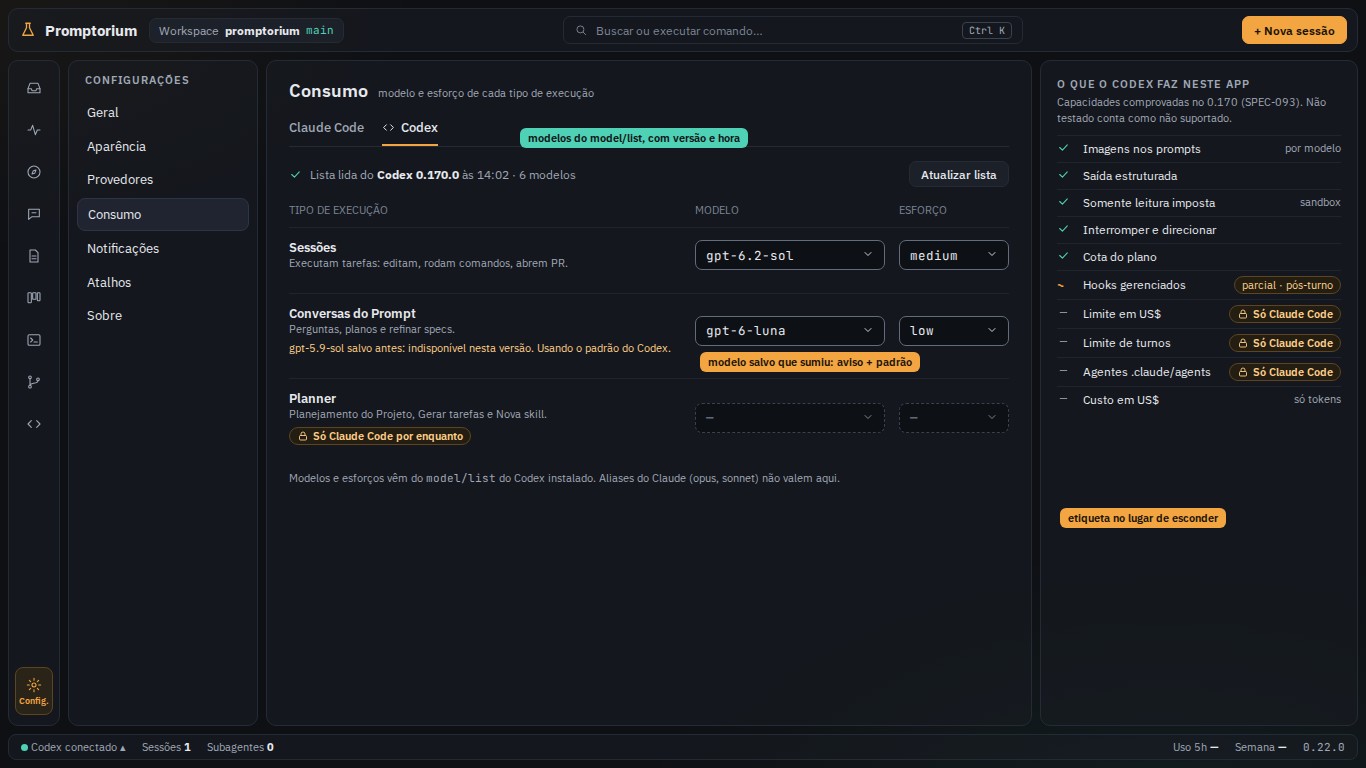
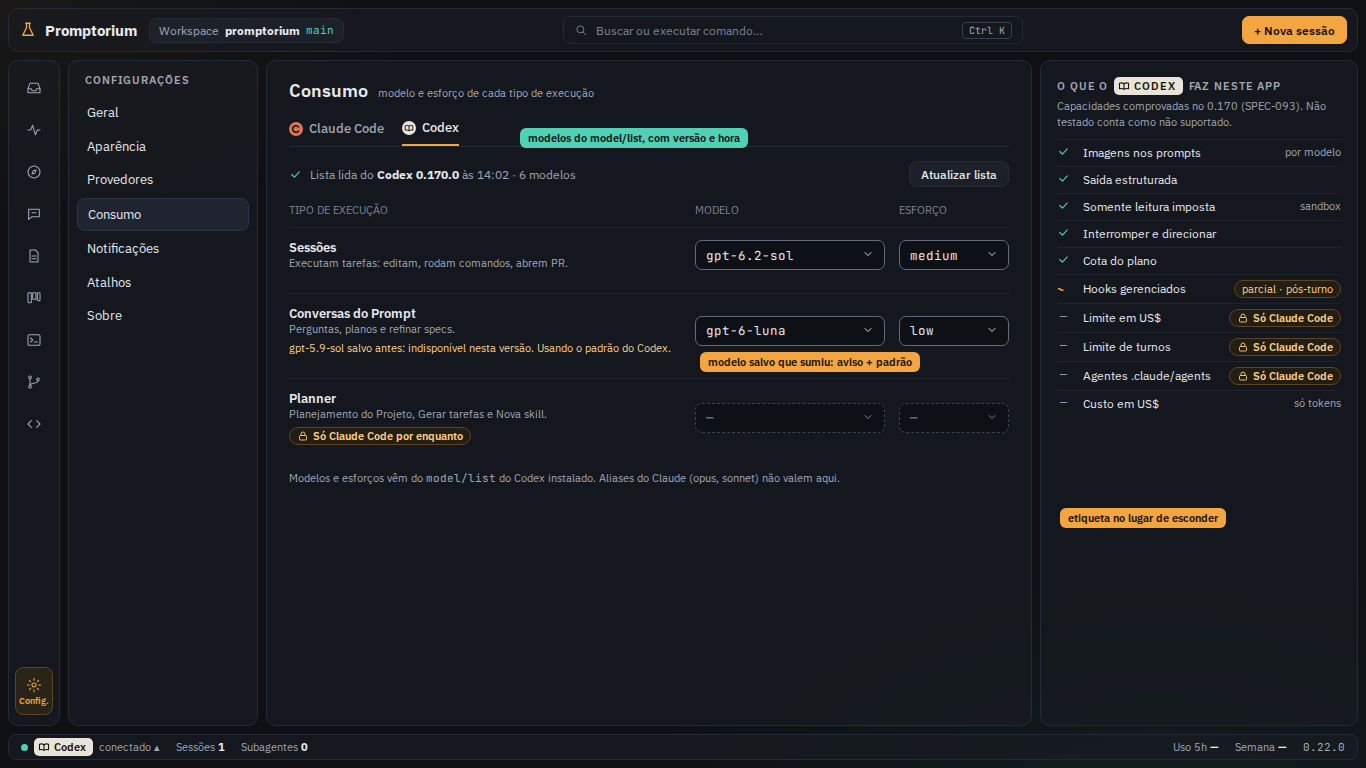
docs(spec): SPEC-094 cores de provedor

diff --git a/docs/specs/SPEC-094-capacidades-por-provedor.md b/docs/specs/SPEC-094-capacidades-por-provedor.md
@@ -49,6 +49,14 @@ Esta spec troca isso por **capacidades declaradas por provedor**. Cada provedor 
 - R12 · **Nunca trocar em silêncio.** Se o provedor resolvido não serve para o fluxo, a execução não começa e a tela diz o motivo antes do clique, com a opção explícita de rodar com o outro provedor. Nenhum caminho cai para o Claude sozinho.
 - R13 · **Fim das comparações soltas.** As decisões de `== 'claude'` / `!= 'claude'` fora dos adaptadores e do registro passam a consultar capacidades ou `providerFlows`. Sobram comparações só em `lib/core/claude/`, `lib/core/codex/` e `lib/core/providers/`.
 
+### Identidade visual do provedor
+
+- R14 · **Cor de identidade por provedor.** Dois tokens novos: `providerClaude` = argila `#D97757` e `providerCodex` = porcelana `#E8E4DA` (ver Design). Três regras:
+  1. **Só identidade, nunca estado.** A cor diz *quem* roda, não *como está*. Rodando, falhou, feita, aguardando e verificando continuam com as cores de hoje (`teal`, `red`, `CanvasColors.*`). Um seletor de provedor marca a opção escolhida com o âmbar de sempre, não com a cor do provedor.
+  2. **Nunca só a cor.** A cor sempre vem com o nome ou com o glifo do provedor. Glifos desenhados por nós, simples e de traço: Claude = arco aberto; Codex = livro aberto ("códice"). Nada dos logos da Anthropic ou da OpenAI.
+  3. **Três formas, e só elas.** (a) **Chip** preenchido com glifo e nome ("Claude" / "Codex"), texto escuro `#1A1206` (`onAmber`), canto 5 px: a forma de estado é a pílula translúcida com canto 10 px, então as duas não se confundem. (b) **Marca** de 14 px (bolinha com o glifo dentro) nos cards do Quadro e nos robôs, onde não cabe o chip. (c) **Borda** de cada lado no Comparar.
+- R15 · **Onde aparece.** Rodapé (o chip ao lado do estado do provedor ativo; o ponto de estado continua); cabeçalho e lista de sessões; lista e cabeçalho de conversas do Prompt; autor de cada turno na timeline e no replay; painel de detalhes ("Provedor"); seletor de provedor da Nova sessão, do Executar spec e do menu do rodapé (marca ao lado do nome); cards do Quadro e robôs dos agentes (marca); Comparar (borda de cada lado e chip no topo); Histórico e Custo por etapa (chip na linha). Provedores sem token (agentes ACP, Gemini) aparecem só com o nome, sem cor, até ganharem um.
+
 ## Fora do escopo
 
 - Ligar o Codex em qualquer fluxo (SPEC-096 em diante).
@@ -78,6 +86,28 @@ Esta spec troca isso por **capacidades declaradas por provedor**. Cada provedor 
 - `lib/core/claude/readonly_run.dart`: repassa `maxBudgetUsd` e `agent` a qualquer provedor.
 - Configurações → Consumo: modelo e esforço por tipo, só Claude.
 
+### Tokens novos (futuro `lib/ui/theme/tokens.dart`)
+
+Ainda não entram no código; ficam registrados aqui para a tarefa T4.
+
+```dart
+// AppColors — identidade do provedor (R14). Nunca para estado.
+static const providerClaude = Color(0xFFD97757); // argila
+static const providerCodex = Color(0xFFE8E4DA);  // porcelana
+// Texto e glifo sobre os dois: AppColors.onAmber (0xFF1A1206).
+```
+
+| Par | Contraste WCAG | Leitura |
+|---|---|---|
+| `#1A1206` sobre argila `#D97757` | 5,94:1 | AA para texto normal |
+| `#1A1206` sobre porcelana `#E8E4DA` | 14,60:1 | AAA |
+| argila sobre o painel `#14171D` | 5,75:1 | passa 3:1 de elemento gráfico (e 4,5:1) |
+| porcelana sobre o painel `#14171D` | 14,14:1 | passa |
+| argila × `running` `#F08A4B` | 1,26:1 · ΔE00 9,7 | perto demais como cor solta |
+| argila × falhou `#F27A6E` | 1,16:1 · ΔE00 8,1 | perto demais como cor solta |
+
+**Checagem com o `running`.** Como bolinha solta, a argila se confunde com o laranja de "Em execução" e com o vermelho de "Falhou". Lado a lado no mock 4, o chip preenchido com nome contra a pílula translúcida de estado, e a marca com glifo contra o ponto pulsante, se distinguem bem no tamanho real. Por isso a argila fica `#D97757` e a regra 2 é obrigatória. Trocar o tom não resolveria: o que se afasta do `running` chega mais perto do vermelho. Exemplo: `#C96A55` vai a ΔE00 15 do `running`, mas fica a 9,4 do vermelho, e o contraste com o texto cai para 5,0:1.
+
 ### Arquivos tocados
 
 | Arquivo | Mudança |
@@ -93,6 +123,9 @@ Esta spec troca isso por **capacidades declaradas por provedor**. Cada provedor 
 | `lib/core/claude/readonly_run.dart` | Monta só o suportado (R5) |
 | `lib/features/settings/` (Consumo) | Abas por provedor, modelos do `model/list` |
 | `lib/ui/widgets/only_provider_tag.dart` | Novo: etiqueta "Só Claude Code" |
+| `lib/ui/theme/tokens.dart` | `providerClaude`, `providerCodex` (R14) |
+| `lib/ui/widgets/provider_badge.dart` | Novo: chip, marca e glifos do provedor (R14, R15) |
+| Rodapé, Sessões, Prompt, timeline, replay, Quadro, robôs, Histórico, Custo | Usam o chip ou a marca no lugar do nome solto (R15) |
 | Os 15 arquivos com `== 'claude'` (R13) | Consultam capacidades ou fluxos |
 
 **Migração do banco:** não. As preferências ficam em `app_settings` (chaves existentes + `codex.models.cache`).
@@ -110,6 +143,7 @@ Esta spec troca isso por **capacidades declaradas por provedor**. Cada provedor 
 | T1 · Capacidades e fluxos | `capabilities.dart`, valores por provedor, `providerFlows` | R1–R3 |
 | T2 · Opções | Intenção + extras, adaptadores, acesso, `readonly_run` | R4–R7 |
 | T3 · Modelo, versão e etiqueta | Aba Codex em Consumo, versão mínima, "Só Claude Code", sem troca silenciosa, fim das comparações | R8–R13 |
+| T4 · Identidade do provedor | Tokens, glifos, `provider_badge.dart` e troca do nome solto pelo chip ou pela marca nas telas de R15 | R14, R15 |
 
 ## Critérios de aceite
 
@@ -122,6 +156,7 @@ Esta spec troca isso por **capacidades declaradas por provedor**. Cada provedor 
 - [ ] Codex 0.168 aparece como incompatível com a orientação; acima de 0.170 funciona com aviso; método ausente aparece nomeado [R10] verificar: teste de `inspectProvider` com versões falsas.
 - [ ] Controles sem suporte mostram "Só Claude Code" com o motivo, e nenhum fluxo troca de provedor sozinho [R11, R12] verificar: testes de widget da Nova sessão e do Executar spec.
 - [ ] `grep -rn "== 'claude'\|!= 'claude'" lib` só encontra adaptadores e registro [R13] verificar: o próprio grep.
+- [ ] Claude e Codex aparecem com o chip (argila / porcelana, glifo e nome) ou com a marca de 14 px em todos os lugares de R15; nenhuma cor de provedor aparece sem nome ou glifo, nenhuma indica estado, e os estados (rodando, falhou, feita) mantêm as cores de hoje [R14, R15] verificar: teste de widget do `ProviderBadge` (cor, glifo e nome por provedor) e conferência das telas contra o mock `4-identidade-provedor.png`.
 
 ## Telas
 
@@ -133,3 +168,6 @@ Canvas: [SPEC-094 · Capacidades e opções por provedor](https://claude.ai/arti
 | `docs/mockups/spec-094/1-consumo-por-provedor.png` | Configurações → Consumo com as abas Claude Code e Codex: modelo e esforço por tipo vindos do `model/list`, versão e hora da leitura, e o quadro "O que o Codex faz neste app" | R1, R8, R9, R11 |
 | `docs/mockups/spec-094/2-so-claude-code.png` | Nova sessão com o Codex: Agente e Orçamento desabilitados com "Só Claude Code", modelo do Codex, acesso com a política de cada modo | R5, R7, R11 |
 | `docs/mockups/spec-094/3-versao-incompativel.png` | Menu do provedor no rodapé: Codex 0.168 incompatível com a orientação, e o aviso de versão mais nova que a testada; Executar spec com "Codex · Só Claude Code por enquanto" | R3, R10, R12 |
+| `docs/mockups/spec-094/4-identidade-provedor.png` | Identidade do provedor: tokens argila e porcelana com os contrastes, glifos próprios, chips em três tamanhos, onde aparece (rodapé, sessão, card do Quadro, robô, Histórico, seletor, Comparar) e a checagem lado a lado da argila contra "Em execução" e "Falhou" | R14, R15 |
+
+Todos os mocks mostram o provedor com o chip ou a marca de R14.
